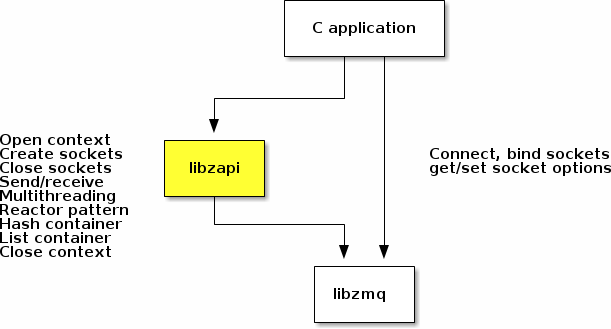
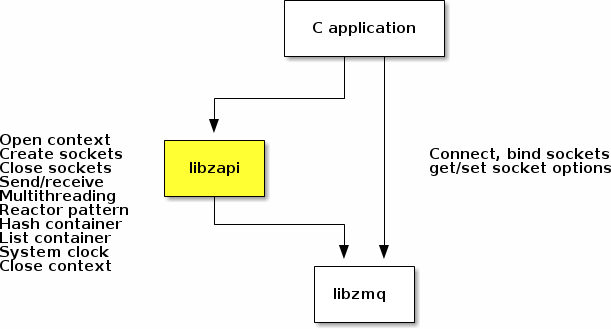
Fixed error in documentation generation

Changed region(s): [[0.0, 0.7295, 0.1866, 0.8207]]

diff --git a/README.md b/README.md
@@ -6,6 +6,27 @@
 ## Contents
 
 
+**<a href="#toc2-11">Overview</a>**
+&emsp;<a href="#toc3-14">Scope and Goals</a>
+&emsp;<a href="#toc3-53">Highlights</a>
+&emsp;<a href="#toc3-68">Ownership and License</a>
+&emsp;<a href="#toc3-75">Contributing</a>
+
+**<a href="#toc2-84">Using zapi</a>**
+&emsp;<a href="#toc3-87">Building and Installing</a>
+&emsp;<a href="#toc3-108">Linking with an Application</a>
+&emsp;<a href="#toc3-115">API Summary</a>
+&emsp;<a href="#toc4-118">zctx - working with ØMQ contexts</a>
+&emsp;<a href="#toc4-129">zstr - sending and receiving strings</a>
+&emsp;<a href="#toc4-154">zframe - working with single message frames</a>
+&emsp;<a href="#toc4-165">zmsg - working with multipart messages</a>
+&emsp;<a href="#toc4-176">zloop - event-driven reactor</a>
+&emsp;<a href="#toc4-187">zhash - expandable hash table container</a>
+&emsp;<a href="#toc4-198">zlist - singly-linked list container</a>
+&emsp;<a href="#toc4-209">zclock - millisecond clocks and delays</a>
+&emsp;<a href="#toc3-220">Development</a>
+&emsp;<a href="#toc3-230">This Document</a>
+
 <A name="toc2-11" title="Overview" />
 ## Overview
 
@@ -23,32 +44,6 @@ zapi grew out of concepts developed in [ØMQ - The Guide](http://zguide.zeromq.o
 <center>
 <img src="https://github.com/zeromq/zapi/raw/master/images/README_1.png" alt="1">
 </center>
-                              +---------------+
-                              |               |
-                              | C application |
-                              |               |
-                              +-----+---+-----+
-                                    |   |
-                                    |   |
-                       +------------+   |
-                       |                |
-                       v                |
-  Open context    +---------+           |
-  Create sockets  |         |           |    Connect, bind sockets
-  Close sockets   | libzapi |           |    get/set socket options
-  Send/receive    |    cYEL |           |
-  Multithreading  +----+----+           |
-  Reactor pattern      |                |
-  Hash container       +------------+   |
-  List container                    |   |
-  System clock                      v   v
-  Close context                  +---------+
-                                 |         |
-                                 | libzmq  |
-                                 |         |
-                                 +---------+
-
-[/diagram]
 
 <A name="toc3-53" title="Highlights" />
 ### Highlights
@@ -273,18 +268,6 @@ message sending.
 <center>
 <img src="https://github.com/zeromq/zapi/raw/master/images/README_2.png" alt="2">
 </center>
-
-           Memory                       Wire
-           +-------------+---+          +---+-------------+
-    Send   | S t r i n g | 0 |  ---->   | 6 | S t r i n g |
-           +-------------+---+          +---+-------------+
-
-           Wire                         Heap
-           +---+-------------+          +-------------+---+
-    Recv   | 6 | S t r i n g |  ---->   | S t r i n g | 0 |
-           +---+-------------+          +-------------+---+
-
-[/diagram]
 
 This is the class interface:
 
